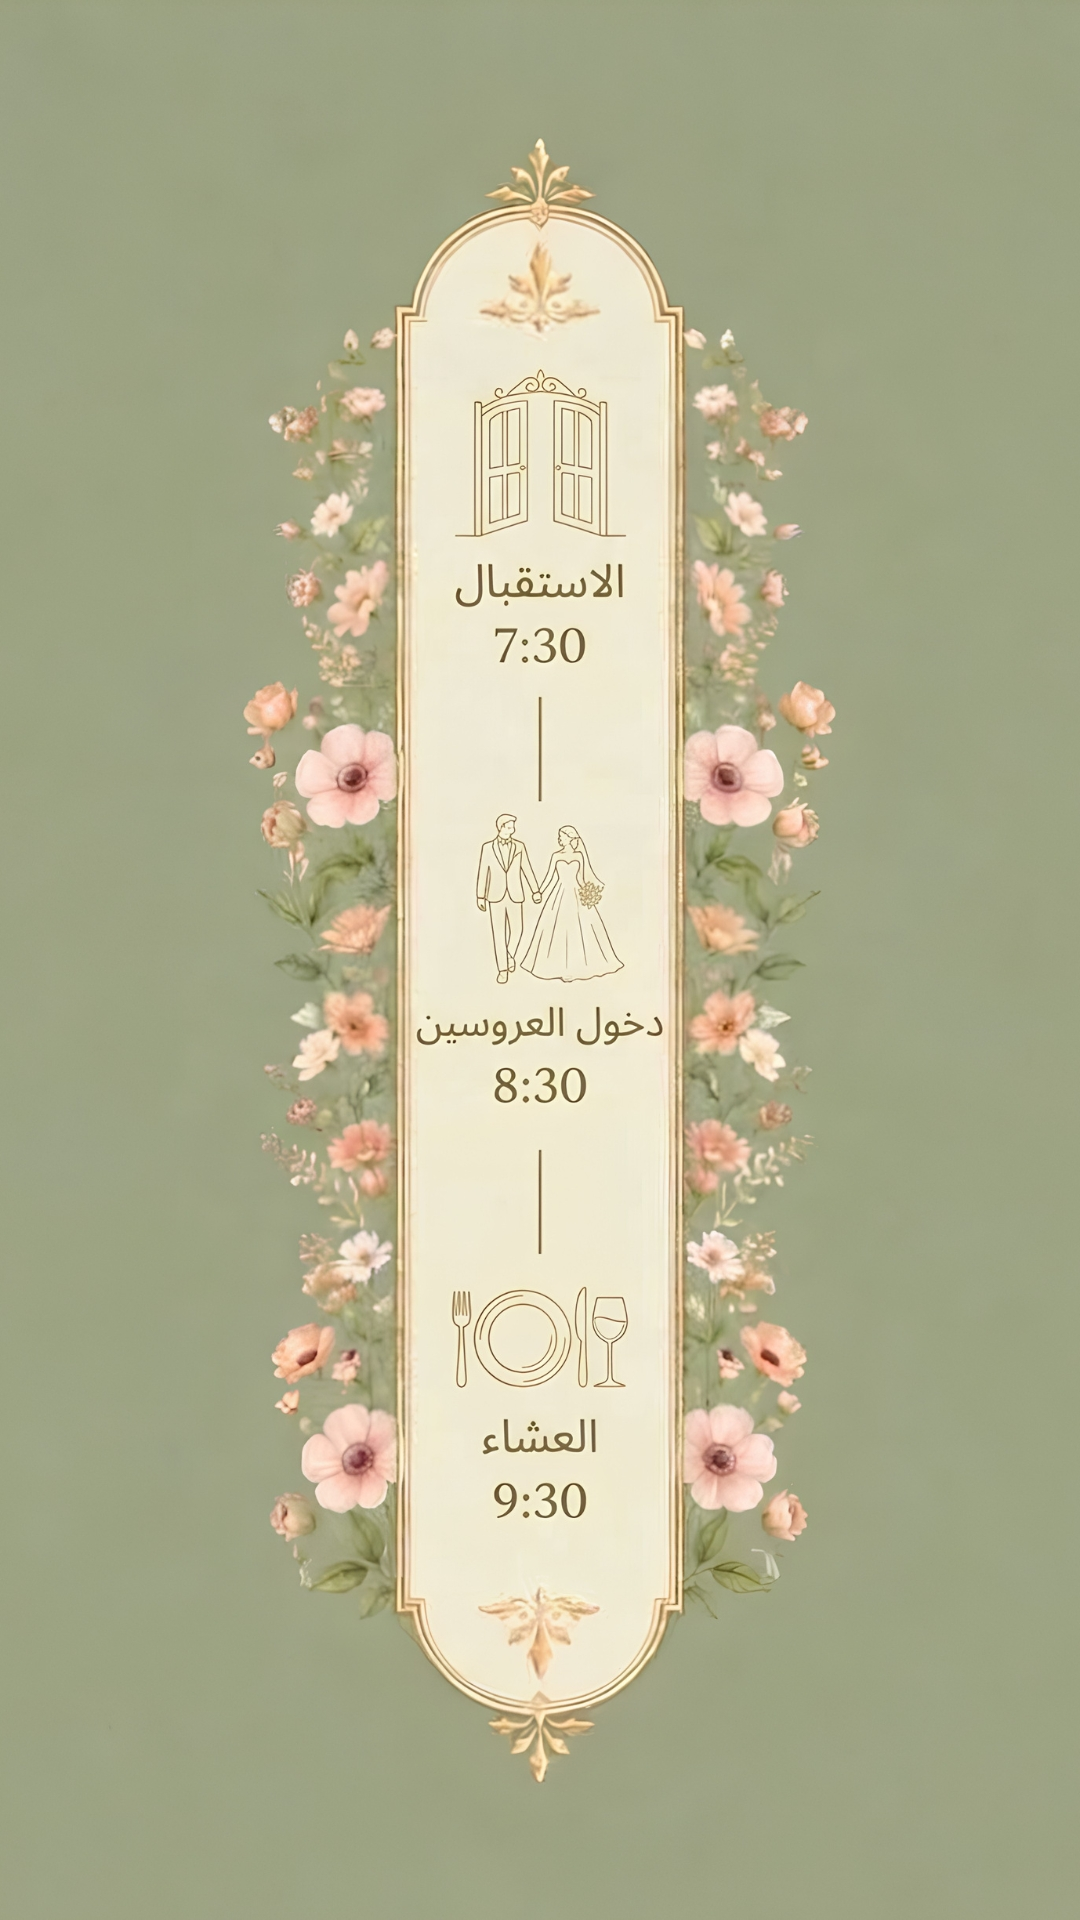
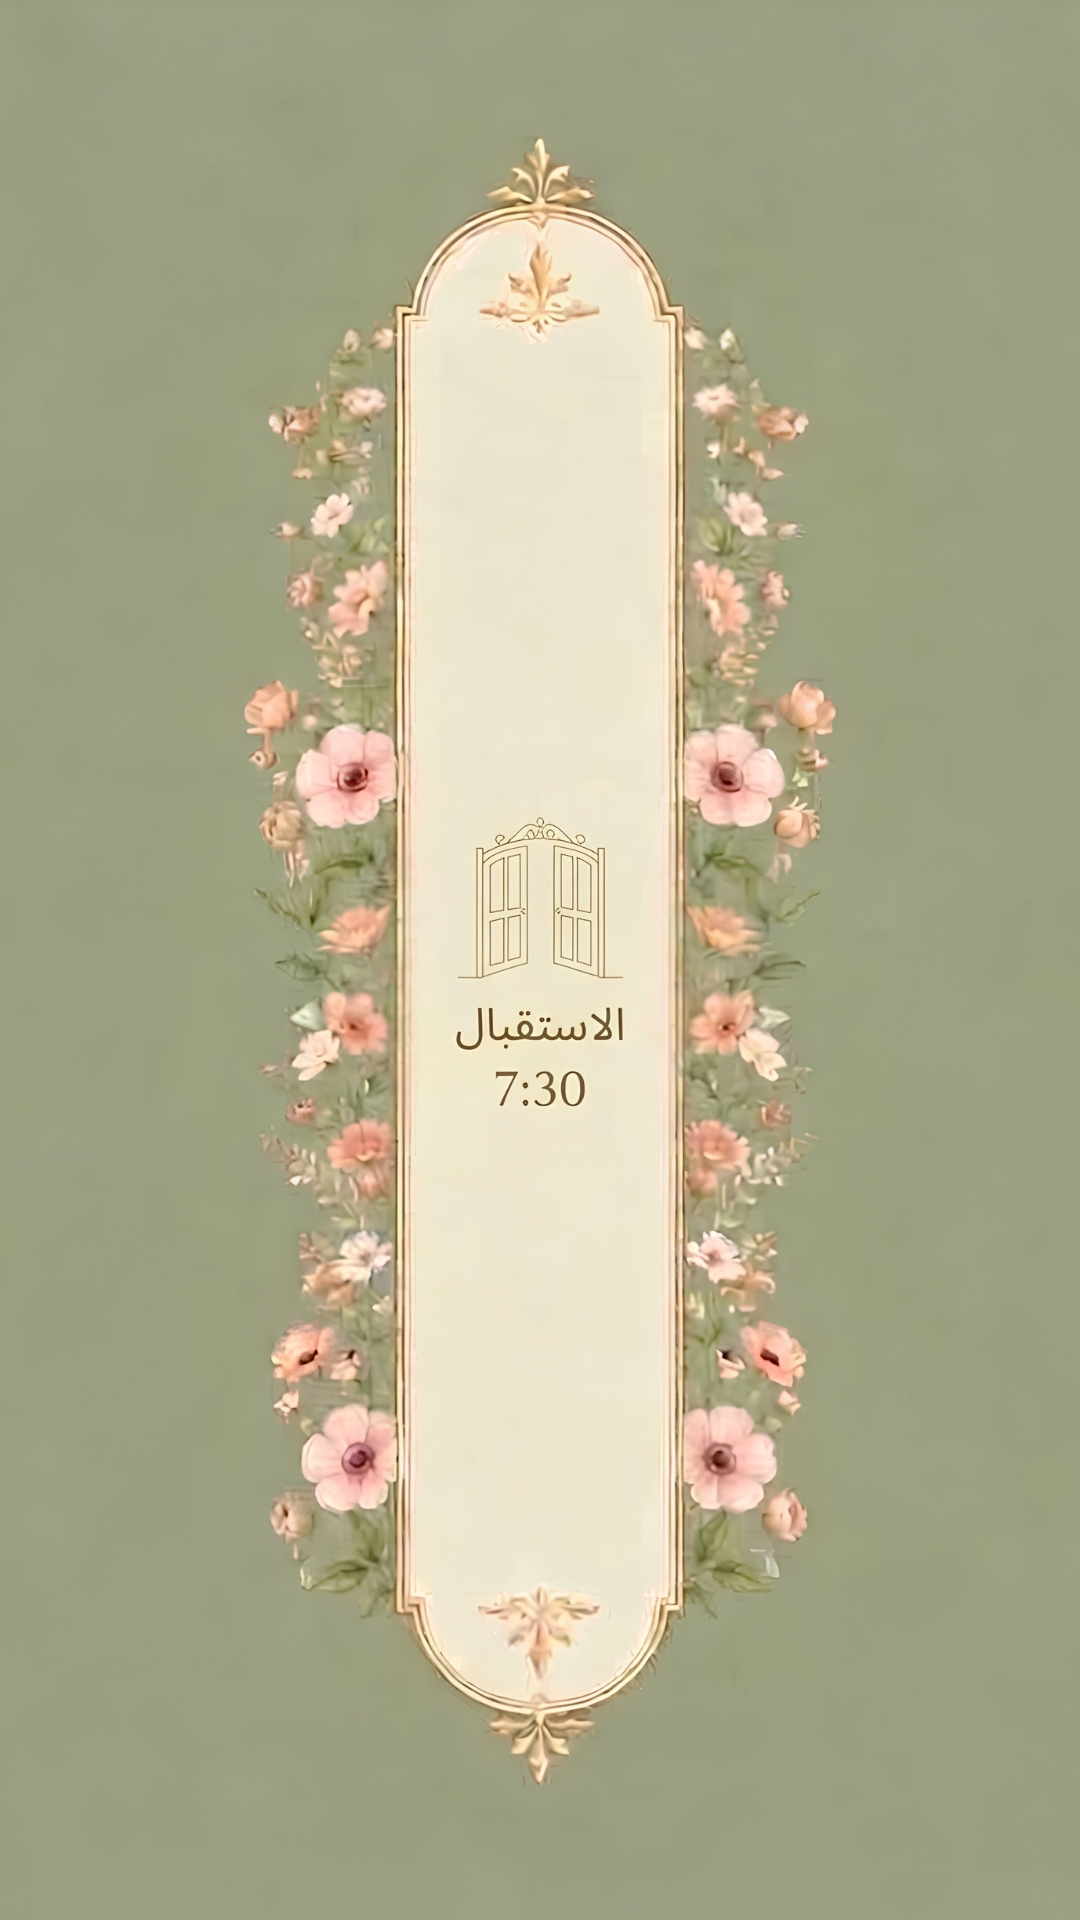
Add files via upload

diff --git a/styles.css b/styles.css
@@ -176,7 +176,7 @@ body {
     filter: drop-shadow(0px 2px 4px rgba(0, 0, 0, 0.3));
 }
 
-/* ---------------- قسم صورة الخلفية text-bg.jpg بمقاس 9:16 كاملة ---------------- */
+/* ---------------- قسم صورة الخلفية text-bg.jpg ---------------- */
 .invitation-text-container {
     position: relative;
     width: 100%;
@@ -317,7 +317,7 @@ body {
     flex: 1;
 }
 
-/* ---------------- قسم برنامج الحفل (صورة فقط) ---------------- */
+/* ---------------- قسم برنامج الحفل ---------------- */
 .program-overlay-container {
     position: relative;
     width: 100%;
@@ -335,7 +335,7 @@ body {
     object-fit: cover;
 }
 
-/* ---------------- قسم صورة المغلف envelope-quote-bg.jpg ---------------- */
+/* ---------------- قسم صورة المغلف ---------------- */
 .envelope-quote-container {
     position: relative;
     width: 100%;
@@ -353,7 +353,7 @@ body {
     object-fit: cover;
 }
 
-/* ---------------- قسم موقع الحفل المدمج مع خلفية venue-bg.jpg ---------------- */
+/* ---------------- قسم موقع الحفل ---------------- */
 .location-section-bg {
     width: 100%;
     padding: 70px 20px;
@@ -426,178 +426,39 @@ body {
     z-index: 1;
 }
 
-/* ---------------- قسم تأكيد الحضور المخصص ---------------- */
-.custom-rsvp-section {
+/* ---------------- قسم عبارات الختام الموحد بنفس الخلفية ---------------- */
+.unified-closing-footer {
     width: 100%;
-    padding: 60px 20px 50px 20px;
-    background-color: #EBE8DE;
-    background-image: radial-gradient(circle at center, rgba(255,255,255,0.4) 0%, rgba(220,217,208,0.4) 100%);
+    padding: 50px 20px;
+    background-color: var(--footer-bg);
     display: flex;
     flex-direction: column;
-    align-items: center;
-    position: relative;
-    font-family: 'Cairo', sans-serif;
-    color: #f7f6e1;
-}
-
-.rsvp-header-title {
-    font-family: 'Great Vibes', cursive;
-    font-size: 4.5rem;
-    color: #222222;
-    margin-bottom: 15px;
-    font-weight: 400;
-    line-height: 1;
-}
-
-.custom-rsvp-card {
-    background-color: #636852;
-    width: 100%;
-    max-width: 380px;
-    border-radius: 20px;
-    padding: 30px 22px 25px 22px;
-    box-shadow: 0 10px 30px rgba(0, 0, 0, 0.15);
-    display: flex;
-    flex-direction: column;
-    align-items: center;
-}
-
-.custom-couple-names-wrapper {
-    display: flex;
     justify-content: center;
     align-items: center;
-    width: 100%;
-    margin-bottom: 20px;
-}
-
-.custom-couple-names-img {
-    max-width: 180px;
-    height: auto;
-    filter: drop-shadow(0px 2px 4px rgba(0,0,0,0.2));
-}
-
-.custom-form-body {
-    width: 100%;
-    display: flex;
-    flex-direction: column;
     gap: 18px;
-    text-align: left;
-    direction: ltr;
-    font-family: 'Cairo', sans-serif;
-    color: #f7f6e1;
-}
-
-.form-group {
-    display: flex;
-    flex-direction: column;
-    gap: 6px;
-    text-align: left;
-}
-
-.input-label {
-    font-family: 'Cairo', sans-serif;
-    font-size: 0.95rem;
-    color: #f7f6e1;
-    font-weight: 600;
-    text-align: left;
-}
-
-.custom-input, .custom-textarea {
-    width: 100%;
-    background-color: rgba(255, 255, 255, 0.08);
-    border: 1px solid rgba(247, 246, 225, 0.3);
-    border-radius: 8px;
-    padding: 10px 12px;
-    color: #f7f6e1;
-    font-family: 'Cairo', sans-serif;
-    font-size: 0.95rem;
-    outline: none;
-    text-align: left;
-    direction: ltr;
-    transition: border-color 0.3s;
-}
-
-.custom-input:focus, .custom-textarea:focus {
-    border-color: #f7f6e1;
-}
-
-.custom-radio-group {
-    display: flex;
-    flex-direction: column;
-    gap: 8px;
-}
-
-.radio-btn-option {
-    cursor: pointer;
-    position: relative;
-    width: 100%;
-    text-align: left;
-}
-
-.radio-btn-option input[type="radio"] {
-    position: absolute;
-    opacity: 0;
-    cursor: pointer;
-}
-
-.radio-box {
-    display: block;
-    width: 100%;
-    padding: 9px 15px;
-    background-color: rgba(255, 255, 255, 0.15);
-    border-radius: 8px;
-    color: #f7f6e1;
-    font-family: 'Cairo', sans-serif;
-    font-size: 0.95rem;
-    text-align: left;
-    transition: background-color 0.3s;
-}
-
-.radio-btn-option input[type="radio"]:checked + .radio-box {
-    background-color: rgba(255, 255, 255, 0.28);
-    border: 1px solid rgba(247, 246, 225, 0.5);
-}
-
-.custom-submit-btn {
-    width: 100%;
-    background-color: #383637;
-    color: #f7f6e1;
-    border: none;
-    border-radius: 20px;
-    padding: 10px;
-    font-family: 'Cairo', sans-serif;
-    font-size: 1.1rem;
-    font-weight: 700;
-    cursor: pointer;
-    margin-top: 10px;
-    transition: background-color 0.3s;
-}
-
-.custom-submit-btn:hover {
-    background-color: #222222;
 }
 
 .rsvp-bottom-phrase {
     font-family: 'Aref Ruqaa', serif;
-    font-size: 2rem;
-    color: #222222;
-    margin-top: 35px;
+    font-size: 2.1rem;
+    color: var(--tertiary-color);
     text-align: center;
-}
-
-/* ---------------- التذييل ---------------- */
-.matching-footer {
-    padding: 40px 20px;
-    background-color: var(--footer-bg);
-    display: flex;
-    justify-content: center;
-    align-items: center;
+    margin: 0;
 }
 
 .footer-heart-text {
     font-family: 'Aref Ruqaa', serif;
-    font-size: 1.5rem;
+    font-size: 1.6rem;
     color: var(--tertiary-color);
     margin: 0;
+}
+
+.sweet-sleep-text {
+    font-family: 'Amiri', serif;
+    font-size: 1.25rem;
+    color: var(--tertiary-color);
+    margin: 0;
+    opacity: 0.85;
 }
 
 /* ---------------- الأقسام العامة ---------------- */

diff --git a/index.html b/index.html
@@ -75,7 +75,7 @@
             </div>
         </section>
 
-        <!-- قسم صورة برنامج الحفل program-bg.jpg بدون نصوص أو أيقونات فوقها -->
+        <!-- قسم صورة برنامج الحفل program-bg.jpg -->
         <section class="program-overlay-container">
             <img src="program-bg.jpg" alt="برنامج الحفل" class="program-bg-img">
         </section>
@@ -85,7 +85,7 @@
             <img src="envelope-quote-bg.jpg" alt="بطاقة ورسالة الزفاف" class="envelope-quote-img">
         </section>
 
-        <!-- موقع الحفل المدمج مع الخلفية الجديدة venue-bg.jpg -->
+        <!-- موقع الحفل المدمج مع الخلفية venue-bg.jpg -->
         <section class="location-section-bg">
             <div class="location-content-block">
                 <h3>موقع الحفل</h3>
@@ -108,56 +108,11 @@
             </div>
         </section>
 
-        <!-- قسم تأكيد الحضور المطور -->
-        <section class="custom-rsvp-section">
-            <h2 class="rsvp-header-title">Rsvp</h2>
-
-            <div class="custom-rsvp-card">
-                <!-- صورة الأسماء المرجعية -->
-                <div class="custom-couple-names-wrapper">
-                    <img src="rsvp-couple-names.png" alt="معتصم وسارة" class="custom-couple-names-img">
-                </div>
-
-                <!-- نموذج الإدخال -->
-                <form id="rsvp-custom-form" class="custom-form-body">
-                    <!-- حقل الاسم -->
-                    <div class="form-group">
-                        <label class="input-label">*الاسم</label>
-                        <input type="text" class="custom-input" required>
-                    </div>
-
-                    <!-- التكرم بتأكيد الحضور -->
-                    <div class="form-group">
-                        <label class="input-label">*التكرم بتأكيد الحضور</label>
-                        <div class="custom-radio-group">
-                            <label class="radio-btn-option">
-                                <input type="radio" name="attendance" value="yes" checked>
-                                <span class="radio-box">نعم</span>
-                            </label>
-                            <label class="radio-btn-option">
-                                <input type="radio" name="attendance" value="no">
-                                <span class="radio-box">لا</span>
-                            </label>
-                        </div>
-                    </div>
-
-                    <!-- كلمة من قلبك لهم -->
-                    <div class="form-group">
-                        <label class="input-label">*كلمة من قلبك لهم</label>
-                        <textarea class="custom-textarea" rows="3" required></textarea>
-                    </div>
-
-                    <!-- زر الإرسال -->
-                    <button type="submit" class="custom-submit-btn">إرسال</button>
-                </form>
-            </div>
-
+        <!-- قسم عبارات الختام الموحد بنفس الخلفية -->
+        <footer class="unified-closing-footer">
             <p class="rsvp-bottom-phrase">وبحضوركم تتم الفرحة والسرور</p>
-        </section>
-
-        <!-- التذييل السفلي -->
-        <footer class="matching-footer">
             <p class="footer-heart-text">♡ ودامت دياركم بالخير ♡</p>
+            <p class="sweet-sleep-text">نوماً هنيئاً لأطفالكم</p>
         </footer>
 
     </main>

diff --git a/script.js b/script.js
@@ -40,11 +40,10 @@ document.addEventListener('DOMContentLoaded', () => {
                 });
             }
 
-            // 2. تشغيل الفيديو في الخلفية والانتظار حتى يبدأ الدوران فعلياً بدون فجوة خضراء
+            // 2. تشغيل الفيديو في الخلفية والانتظار حتى يبدأ الدوران فعلياً
             if (envelopeVideo) {
                 const playPromise = envelopeVideo.play();
 
-                // دالة لإخفاء صورة الغلاف عند التأكد من بدء دوران الفيديو
                 const showVideoSmoothly = () => {
                     if (coverImage) {
                         coverImage.classList.add('fade-out');
@@ -53,7 +52,6 @@ document.addEventListener('DOMContentLoaded', () => {
 
                 if (playPromise !== undefined) {
                     playPromise.then(() => {
-                        // استخدام الحدث timeupdate لضمان أن أول إطار قد تم عرضه فعلياً
                         envelopeVideo.addEventListener('timeupdate', showVideoSmoothly, { once: true });
                     }).catch(() => {
                         finishCoverAnimation();
@@ -113,14 +111,4 @@ document.addEventListener('DOMContentLoaded', () => {
 
     setInterval(updateCountdown, 1000);
     updateCountdown();
-
-    // --- معالجة نموذج تأكيد الحضور المخصص ---
-    const rsvpCustomForm = document.getElementById('rsvp-custom-form');
-    if (rsvpCustomForm) {
-        rsvpCustomForm.addEventListener('submit', (e) => {
-            e.preventDefault();
-            alert('شكراً لك! تم إرسال تأكيد حضورك ورسالتك بنجاح.');
-            rsvpCustomForm.reset();
-        });
-    }
 });
